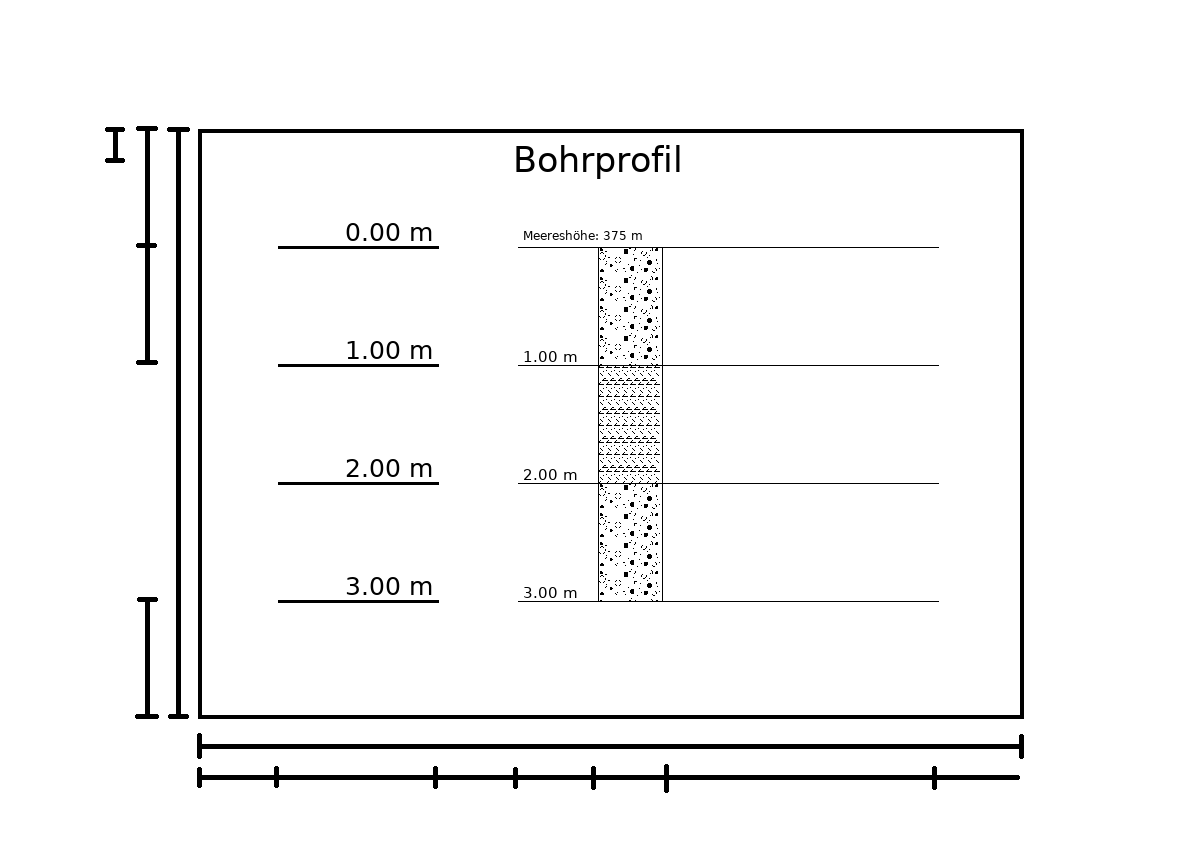
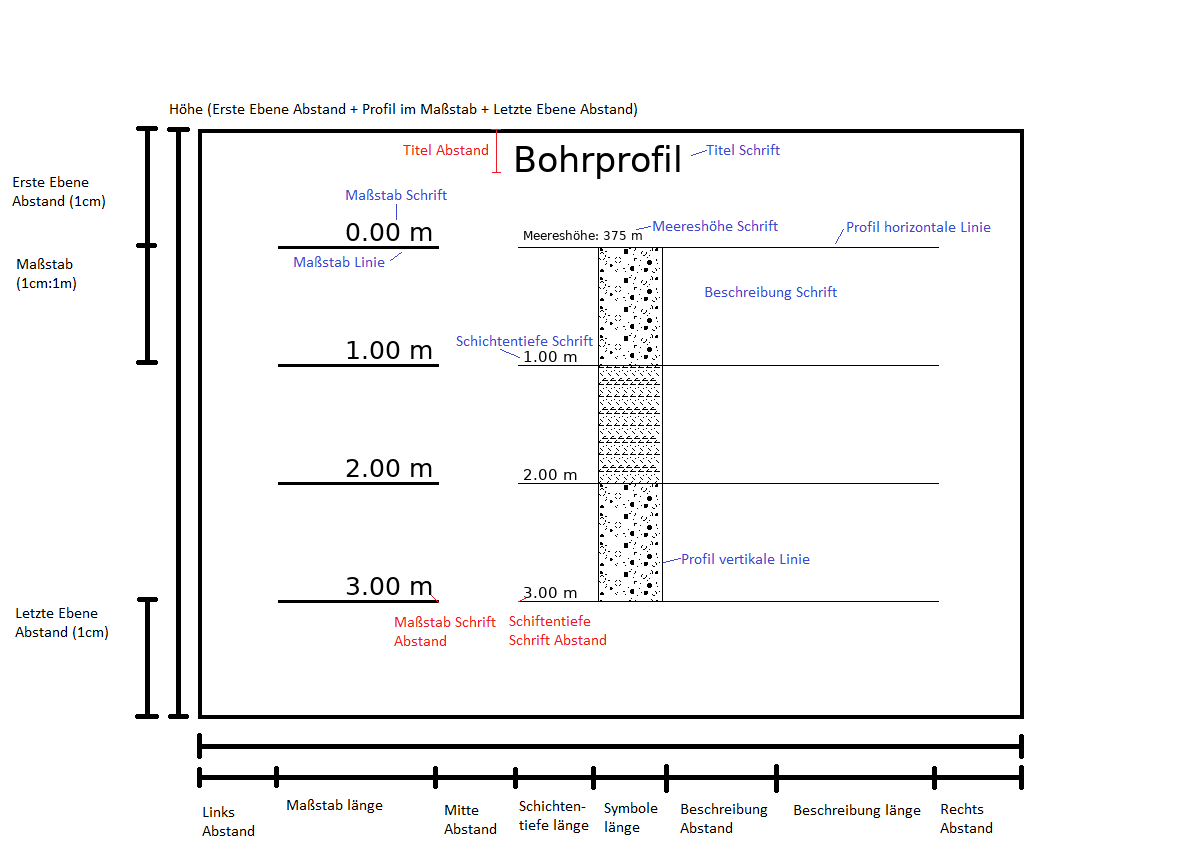
finish app

diff --git a/app.py b/app.py
@@ -4,6 +4,17 @@ from os import path
 from src.main_frame import MainFrame
 from src.utils import get_pixels_per_cm
 
+try:
+    from ctypes import windll
+
+    myappid = "mycompany.myproduct.subproduct.version"
+    windll.shell32.SetCurrentProcessExplicitAppUserModelID(myappid)
+
+
+except ImportError:
+    pass
+
+
 basedir = path.dirname(__file__)
 
 layers = []
